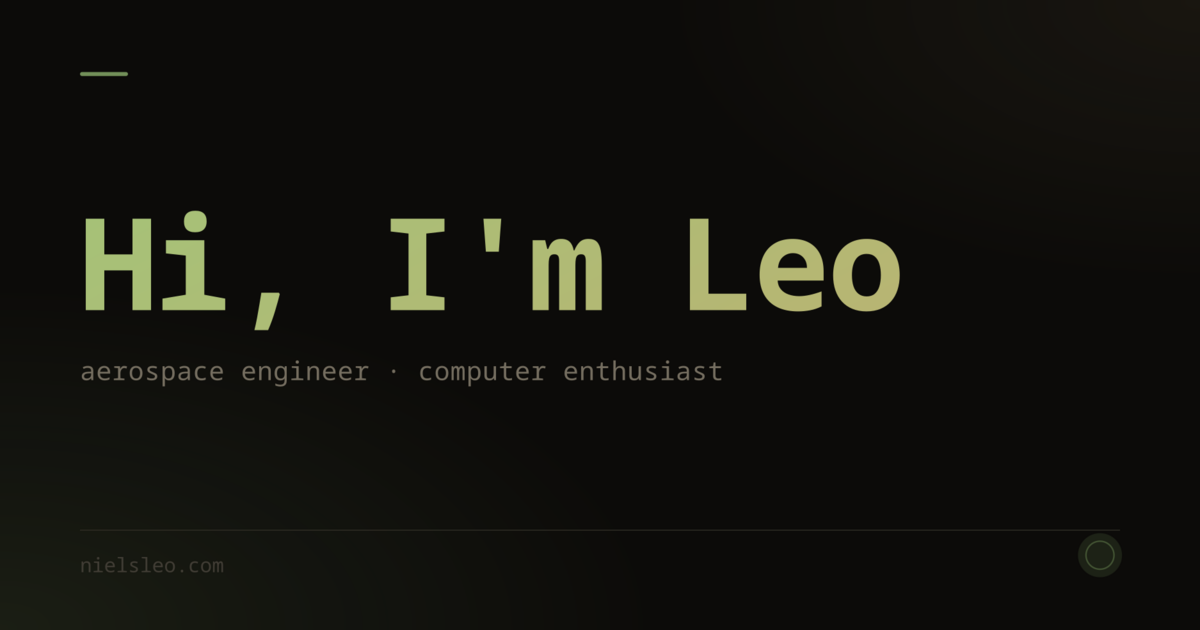
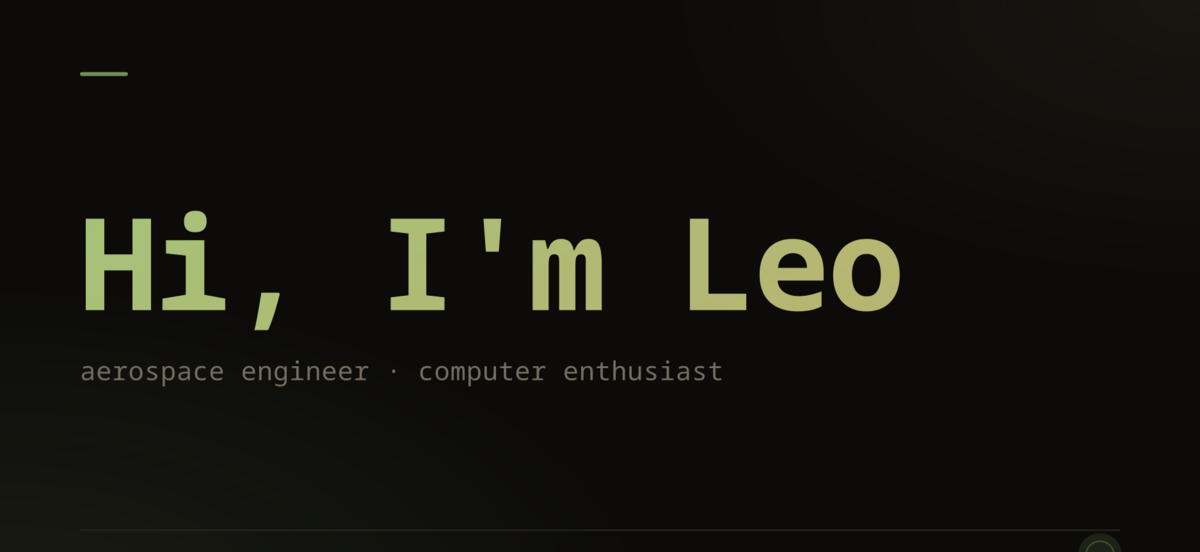
changes to og image and content changes

diff --git a/src/projects/boomer-rocket-team.md b/src/projects/boomer-rocket-team.md
@@ -161,7 +161,9 @@ Similarly the software is also very simple by comparison. We can fundamentally d
 
 ### Nose Cone Electronics Bay
 
-The nose cone brought a whole new host of issues into the mix. Fon one - on top of having to worry about how to implement a wireless protocol, and vertically integrating an altimeter tech stack to reduce costs - we also had to ensure that it was capable of withstanding 9 G's of acceleration. The build was relavtively 
+The nose cone brought a whole new host of issues into the mix. Fon one - on top of having to worry about how to implement a wireless protocol, and vertically integrating an altimeter tech stack to reduce costs - we also had to ensure that it was capable of withstanding 9 G's of acceleration. The build was relavtively simple however required alot of manual tinkering
+
+The purpose of the nose cone electronics were to be a manual seperator of the payload module and the launch vehicle, while also running dual purpose as a live telemetry altimeter.
 
 ### Payload
 
@@ -169,7 +171,24 @@ The payload is the most complex software system onboard the Launch Vehicle - and
 
 It functions through the benefits provided by using a Linux single board computer. We used a custom version of ```Raspbian``` OS. 
 
-Because this is a fully functional operating system, we are able to take advantage of multi-threading our programs. 
+Because this is a fully functional operating system, we are able to take advantage of multi-threading. 
+
+Multi-threading in this context refers to the ability to run multiple programs concurrently - which as far as the Esp32 setups are concerned is not possible. We used the ```Threading``` and ```Subprocess``` modules on Python (via UV by astral) to create a Python orchestration layer that can call subserviant c++ helper functions. This means that we get the ease and simplicity of python for the logic that dictates the payload finite state machine, while retaining the speed and performance requirements derived from the hardware from c++.
+
+There are currently 4 C++ helper programs that we run concurrent to the orchestrator:
+
+- transmitter.cpp
+- receiver.cpp
+- modbus.cpp
+- motor.cpp
+
+Each of these dictate a seperate process that needs to be managed or called by the state machine. The standard run time for the project can be boiled down to the following:
+
+- Python orchestrator is started via ```uv run main.py```
+- ```main.py``` starts a ```thread``` for receiving data packets and listens constantly
+- Upon receiving a signal, ```motor.cpp``` is called and begins extracting soil.
+- When soil and motor are situated inside the payload, ```modbus.cpp``` is called, and the soil data is loaded into the ```buffer``` of the python program.
+- Then the ```transmitter.cpp``` program is called and sends the data to the base station.
 
 
 #### Testing
